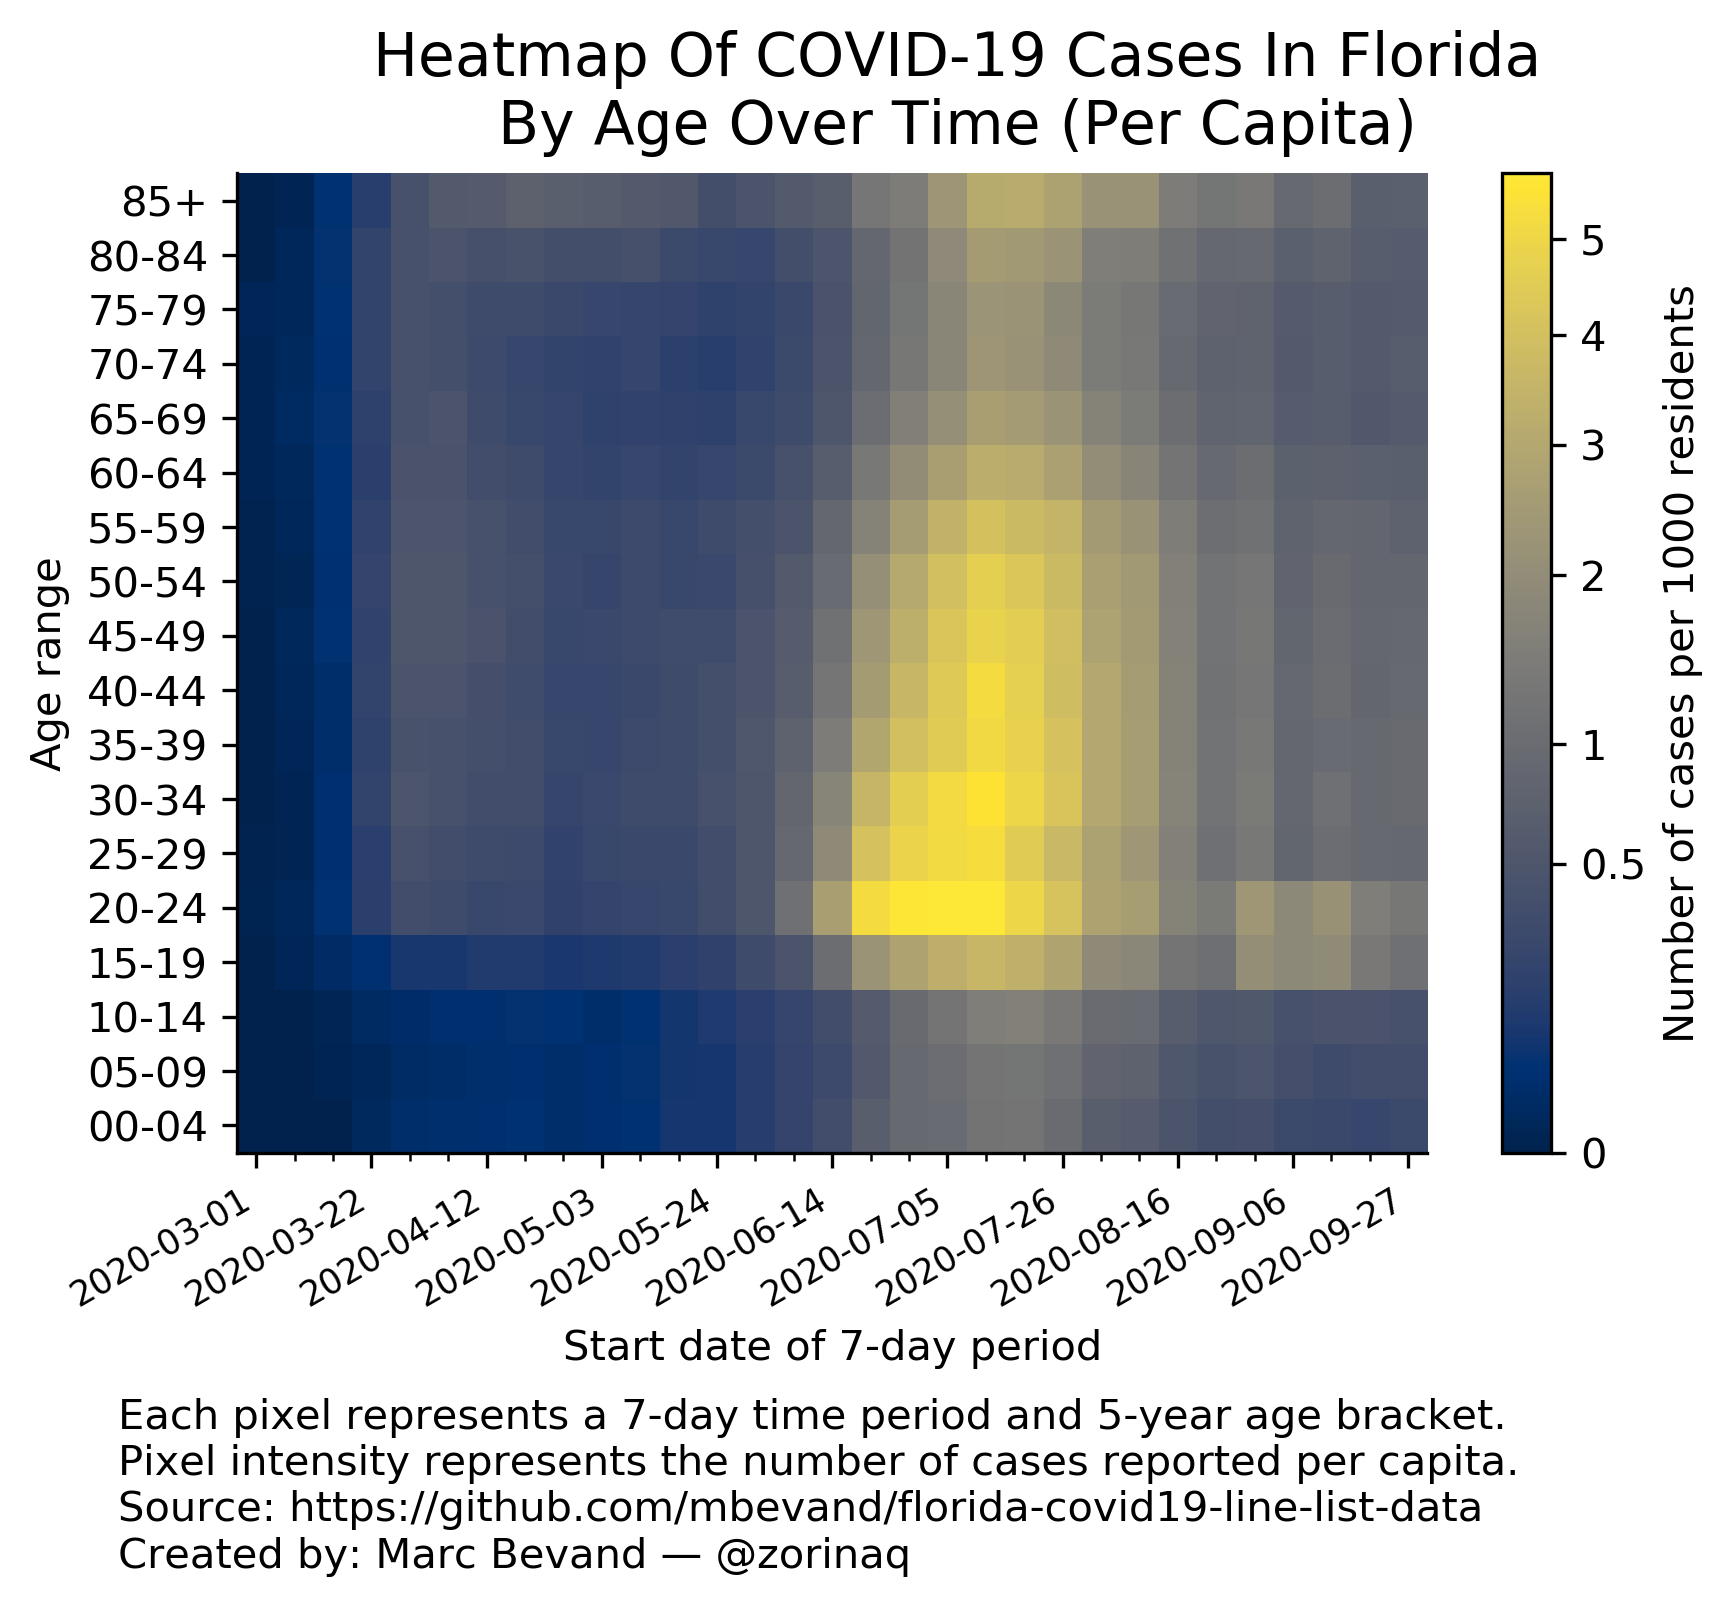
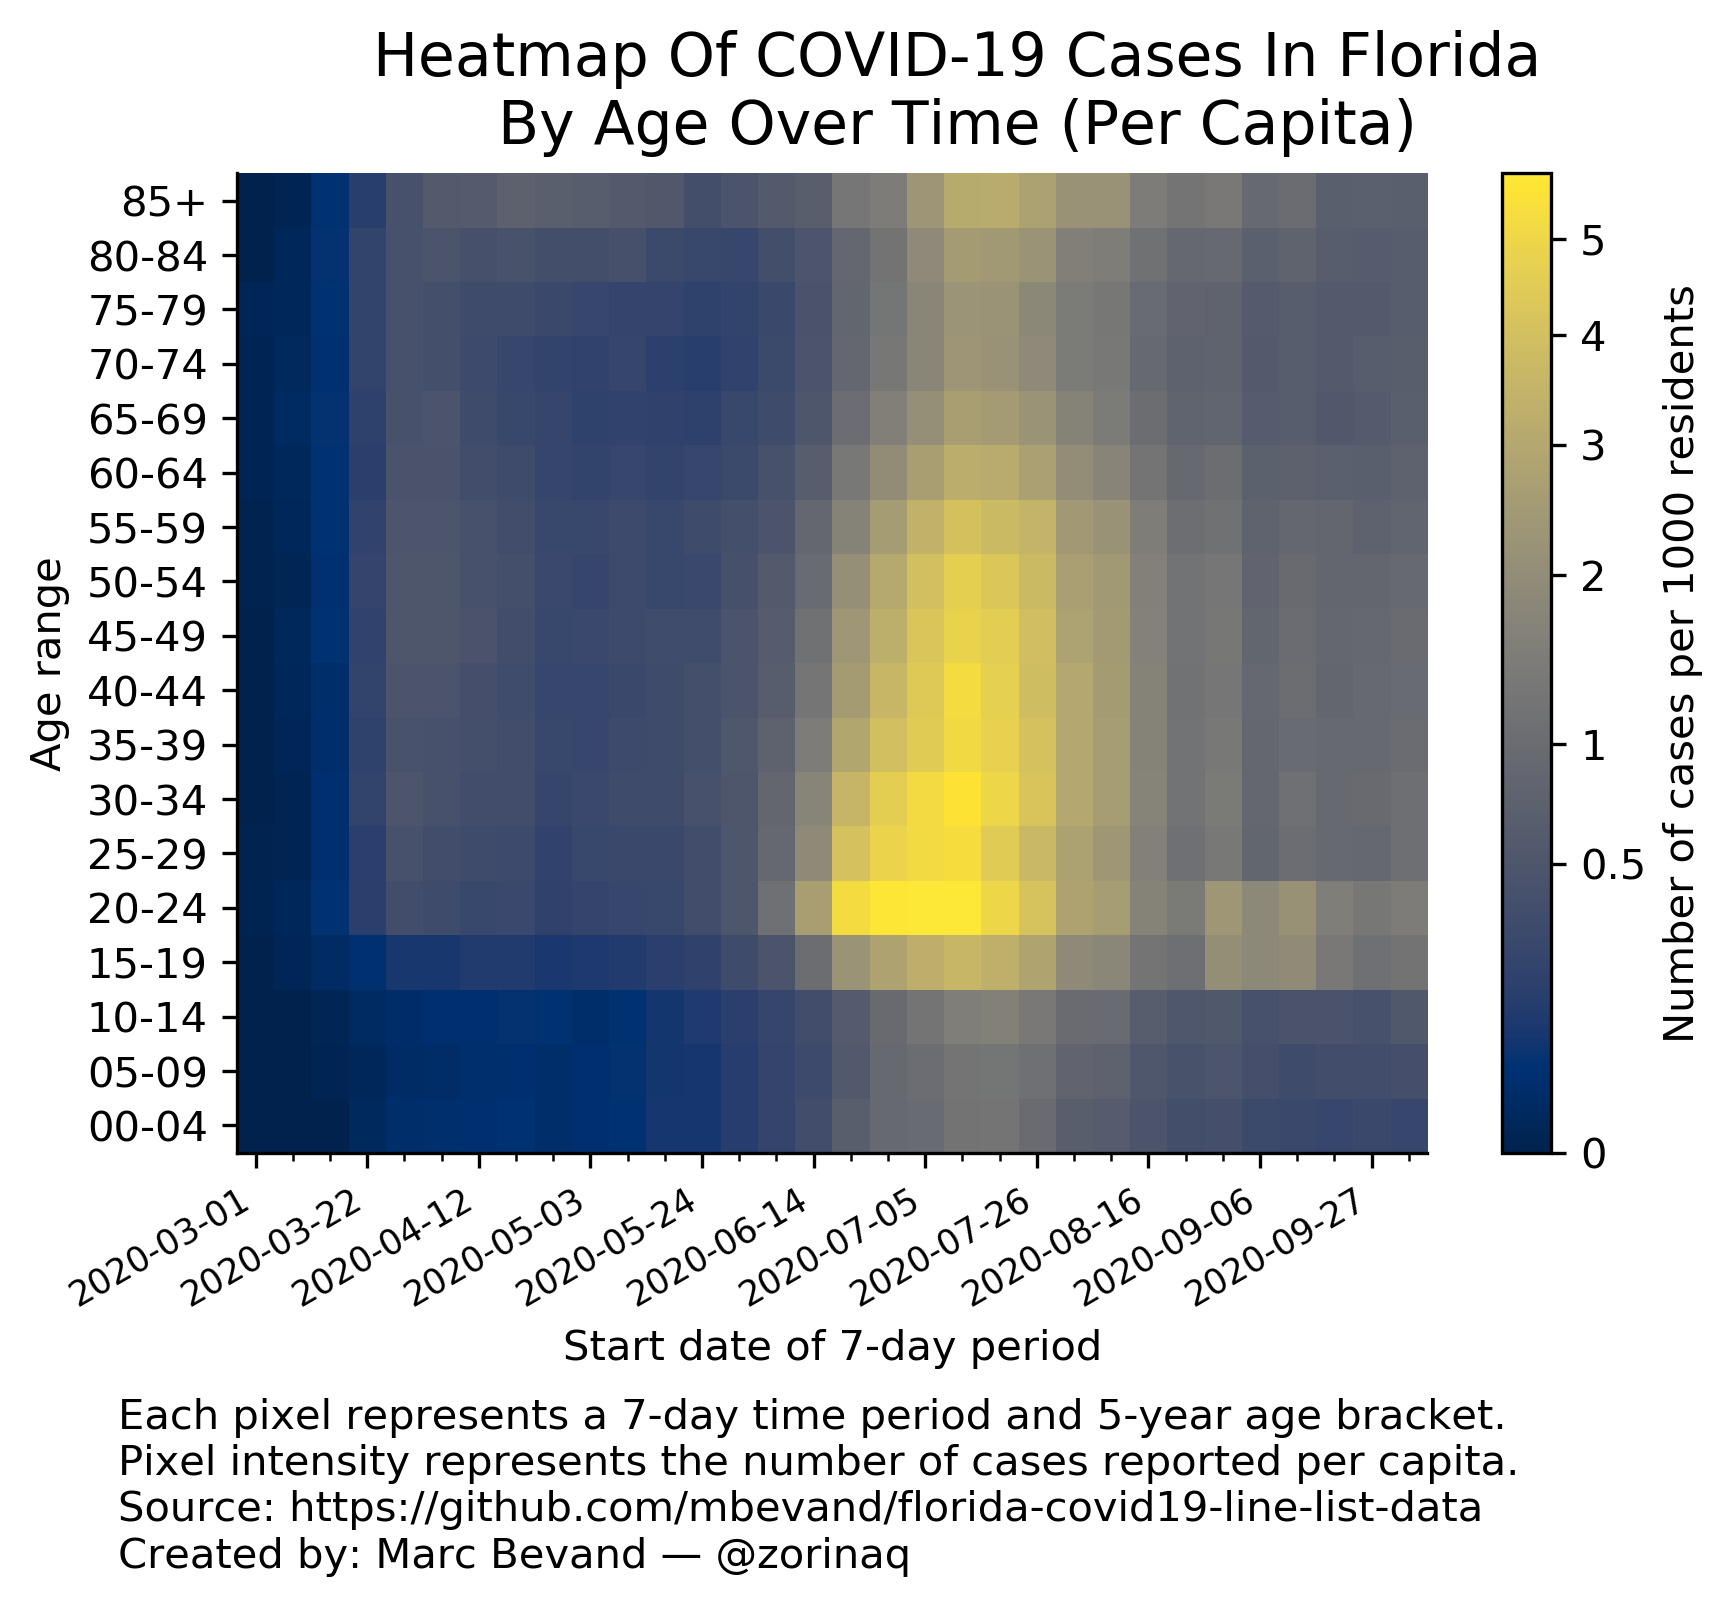
update heatmaps

diff --git a/README.md b/README.md
@@ -1,6 +1,6 @@
 # Forecasting deaths and analyzing age trends of COVID-19 cases in Florida
 
-*Updated: 04 Oct 2020*
+*Updated: 14 Oct 2020*
 
 Author: Marc Bevand
 
@@ -388,41 +388,42 @@ It creates various heatmaps of cases by age over time:
 
 ```
 $ ./heatmap.py
-Opening data_fdoh/2020-10-04-07-46-18.csv.gz
+Opening data_fdoh/2020-10-11-09-26-07.csv.gz
 Number of COVID-19 cases per 7-day time period in Florida by age bracket over time:
 period_start, 00-04, 05-09, 10-14, 15-19, 20-24, 25-29, 30-34, 35-39, 40-44, 45-49, 50-54, 55-59, 60-64, 65-69, 70-74, 75-79, 80-84, 85+, median_age
   2020-03-01,     0,     0,     0,     0,     1,     1,     0,     0,     0,     0,     1,     1,     2,     2,     2,     3,     0,     0,  65.0
   2020-03-08,     0,     0,     0,     4,     7,     3,     2,     5,     6,     8,     4,     8,     9,    17,    10,     4,     3,     1,  59.0
   2020-03-15,     0,     2,     3,    21,    57,    48,    45,    36,    34,    63,    54,    64,    64,    67,    40,    41,    30,    26,  53.0
-  2020-03-22,    10,     5,    17,    49,   205,   223,   282,   254,   272,   273,   315,   298,   235,   235,   237,   176,   121,    84,  50.0
+  2020-03-22,    10,     5,    17,    49,   205,   223,   282,   254,   272,   273,   315,   298,   234,   235,   237,   176,   121,    84,  50.0
   2020-03-29,    32,    21,    28,   109,   428,   577,   652,   583,   604,   701,   716,   704,   631,   550,   470,   345,   234,   228,  50.0
   2020-04-05,    34,    25,    42,   108,   383,   481,   568,   541,   577,   669,   699,   706,   636,   593,   418,   313,   262,   326,  51.0
   2020-04-12,    37,    35,    41,   142,   330,   437,   465,   494,   490,   608,   595,   613,   493,   405,   335,   270,   220,   344,  50.0
-  2020-04-19,    49,    39,    67,   149,   341,   427,   459,   466,   416,   462,   518,   498,   441,   332,   278,   259,   246,   424,  50.0
-  2020-04-26,    29,    29,    55,   111,   251,   296,   308,   339,   305,   348,   375,   382,   323,   301,   240,   235,   205,   382,  52.0
-  2020-05-03,    37,    38,    35,   132,   276,   364,   355,   321,   319,   364,   328,   373,   297,   245,   225,   212,   202,   362,  50.0
-  2020-05-10,    51,    58,    60,   151,   313,   401,   435,   399,   353,   399,   423,   432,   351,   270,   262,   191,   225,   334,  49.0
+  2020-04-19,    49,    39,    67,   149,   341,   426,   459,   466,   416,   462,   518,   498,   441,   332,   279,   259,   246,   424,  50.0
+  2020-04-26,    29,    29,    55,   111,   251,   295,   307,   339,   305,   348,   374,   382,   323,   301,   239,   235,   205,   381,  52.0
+  2020-05-03,    37,    38,    35,   132,   276,   364,   355,   321,   319,   364,   328,   373,   297,   245,   225,   211,   202,   362,  50.0
+  2020-05-10,    51,    58,    60,   151,   313,   401,   435,   399,   353,   399,   423,   432,   351,   270,   262,   190,   225,   334,  49.0
   2020-05-17,    94,    88,    98,   193,   329,   392,   423,   417,   392,   443,   357,   379,   306,   257,   197,   188,   161,   311,  46.0
   2020-05-24,    91,    94,   136,   242,   424,   481,   544,   491,   468,   447,   375,   444,   336,   237,   165,   159,   144,   207,  42.0
   2020-05-31,   162,   161,   201,   400,   624,   707,   693,   706,   594,   617,   560,   539,   413,   333,   232,   181,   138,   269,  40.0
-  2020-06-07,   258,   256,   290,   592,  1399,  1287,  1150,  1019,   813,   840,   805,   688,   575,   402,   320,   235,   205,   324,  37.0
-  2020-06-14,   392,   342,   436,  1271,  3356,  2757,  2317,  1940,  1605,  1554,  1364,  1277,   915,   650,   529,   378,   271,   379,  34.0
-  2020-06-21,   764,   643,   762,  2757,  6592,  5830,  4807,  3907,  3229,  3192,  2944,  2436,  1868,  1347,   989,   718,   496,   722,  34.0
-  2020-06-28,  1068,  1047,  1202,  3466,  7124,  6987,  6217,  5292,  4588,  4441,  4301,  3740,  2815,  2030,  1457,  1053,   677,   826,  36.0
-  2020-07-05,  1109,  1188,  1523,  4110,  7210,  7311,  6943,  5949,  5553,  5756,  5535,  4984,  3752,  2697,  1994,  1488,  1060,  1303,  39.0
-  2020-07-12,  1369,  1380,  1925,  4465,  7199,  7550,  7432,  6798,  6613,  6595,  6529,  5914,  4581,  3430,  2573,  1908,  1424,  1741,  41.0
-  2020-07-19,  1407,  1409,  2015,  4131,  6279,  6396,  6675,  6344,  5967,  6245,  6027,  5489,  4406,  3265,  2444,  1873,  1358,  1774,  41.0
-  2020-07-26,  1120,  1247,  1693,  3520,  5207,  5244,  5630,  5432,  4953,  5365,  5255,  5083,  3836,  2891,  2137,  1559,  1237,  1556,  42.0
-  2020-08-02,   763,   928,  1228,  2377,  3549,  3911,  4019,  4013,  3800,  3781,  3745,  3585,  2885,  2132,  1588,  1183,   863,  1233,  42.0
-  2020-08-09,   714,   857,  1222,  2260,  3261,  3342,  3478,  3455,  3234,  3372,  3396,  3179,  2462,  1829,  1497,  1103,   845,  1242,  42.0
-  2020-08-16,   544,   595,   811,  1512,  2098,  2249,  2268,  2231,  2111,  2209,  2202,  2186,  1733,  1339,  1052,   813,   638,   827,  43.0
-  2020-08-23,   413,   493,   656,  1355,  1751,  1613,  1589,  1571,  1485,  1619,  1653,  1558,  1303,  1024,   861,   688,   505,   697,  43.0
-  2020-08-30,   438,   547,   675,  2537,  2951,  1900,  1863,  1775,  1638,  1775,  1812,  1662,  1438,  1080,   878,   650,   525,   764,  39.0
-  2020-09-06,   332,   431,   510,  2323,  2360,  1202,  1191,  1177,  1135,  1143,  1145,  1123,  1023,   799,   665,   514,   396,   516,  37.0
-  2020-09-13,   321,   347,   560,  2422,  2734,  1480,  1479,  1287,  1302,  1362,  1320,  1289,  1056,   839,   711,   552,   434,   574,  37.0
-  2020-09-20,   286,   384,   555,  1672,  1926,  1331,  1240,  1216,  1090,  1206,  1210,  1249,  1000,   723,   643,   491,   353,   398,  39.0
-  2020-09-27,   324,   386,   528,  1386,  1652,  1288,  1281,  1258,  1154,  1216,  1206,  1121,   988,   790,   715,   508,   350,   405,  40.0
-(Last period's data may be incomplete. Age unknown for 1044 out of 716459 cases.)
+  2020-06-07,   258,   256,   290,   592,  1399,  1287,  1151,  1019,   813,   839,   805,   688,   575,   402,   320,   235,   205,   324,  37.0
+  2020-06-14,   392,   342,   436,  1270,  3356,  2757,  2317,  1940,  1605,  1554,  1362,  1277,   915,   652,   528,   378,   270,   379,  34.0
+  2020-06-21,   764,   643,   762,  2757,  6592,  5830,  4807,  3907,  3229,  3192,  2944,  2436,  1868,  1347,   989,   717,   496,   721,  34.0
+  2020-06-28,  1068,  1047,  1202,  3466,  7125,  6985,  6216,  5291,  4588,  4441,  4301,  3740,  2815,  2030,  1457,  1052,   676,   826,  36.0
+  2020-07-05,  1109,  1188,  1523,  4110,  7210,  7311,  6943,  5948,  5553,  5755,  5535,  4983,  3752,  2696,  1994,  1488,  1059,  1303,  39.0
+  2020-07-12,  1369,  1380,  1925,  4465,  7197,  7550,  7431,  6797,  6612,  6595,  6529,  5914,  4579,  3430,  2573,  1906,  1425,  1740,  41.0
+  2020-07-19,  1407,  1409,  2015,  4131,  6277,  6396,  6676,  6344,  5967,  6244,  6027,  5489,  4406,  3264,  2444,  1873,  1357,  1774,  41.0
+  2020-07-26,  1120,  1247,  1693,  3519,  5207,  5243,  5630,  5432,  4953,  5365,  5254,  5082,  3835,  2891,  2135,  1559,  1236,  1556,  42.0
+  2020-08-02,   762,   928,  1227,  2378,  3549,  3911,  4018,  4013,  3799,  3781,  3746,  3584,  2884,  2133,  1587,  1183,   864,  1230,  42.0
+  2020-08-09,   714,   857,  1221,  2260,  3258,  3340,  3475,  3454,  3232,  3369,  3396,  3179,  2462,  1829,  1496,  1103,   845,  1242,  42.0
+  2020-08-16,   544,   594,   811,  1511,  2097,  2247,  2268,  2231,  2111,  2209,  2201,  2185,  1733,  1339,  1053,   812,   638,   827,  43.0
+  2020-08-23,   413,   493,   656,  1355,  1750,  1613,  1589,  1570,  1485,  1620,  1652,  1557,  1302,  1026,   860,   687,   505,   696,  43.0
+  2020-08-30,   438,   547,   675,  2541,  2952,  1900,  1863,  1776,  1638,  1775,  1812,  1660,  1438,  1080,   877,   650,   525,   762,  39.0
+  2020-09-06,   332,   431,   510,  2324,  2358,  1202,  1190,  1177,  1134,  1143,  1145,  1123,  1023,   799,   665,   514,   396,   516,  37.0
+  2020-09-13,   322,   347,   560,  2419,  2734,  1480,  1478,  1287,  1303,  1360,  1320,  1287,  1055,   838,   711,   552,   433,   571,  37.0
+  2020-09-20,   285,   385,   555,  1671,  1925,  1329,  1243,  1214,  1089,  1204,  1209,  1247,  1000,   720,   641,   491,   353,   397,  39.0
+  2020-09-27,   319,   383,   526,  1381,  1647,  1288,  1283,  1249,  1151,  1215,  1198,  1112,   990,   787,   712,   504,   347,   401,  40.0
+  2020-10-04,   283,   431,   677,  1504,  1846,  1546,  1455,  1350,  1237,  1342,  1302,  1218,  1084,   890,   751,   532,   365,   387,  40.0
+(Last period's data may be incomplete. Age unknown for 1046 out of 734491 cases.)
 ```
 
 By default the size of each pixel, or *bucket*, is 5-year age brackets and 7-day
